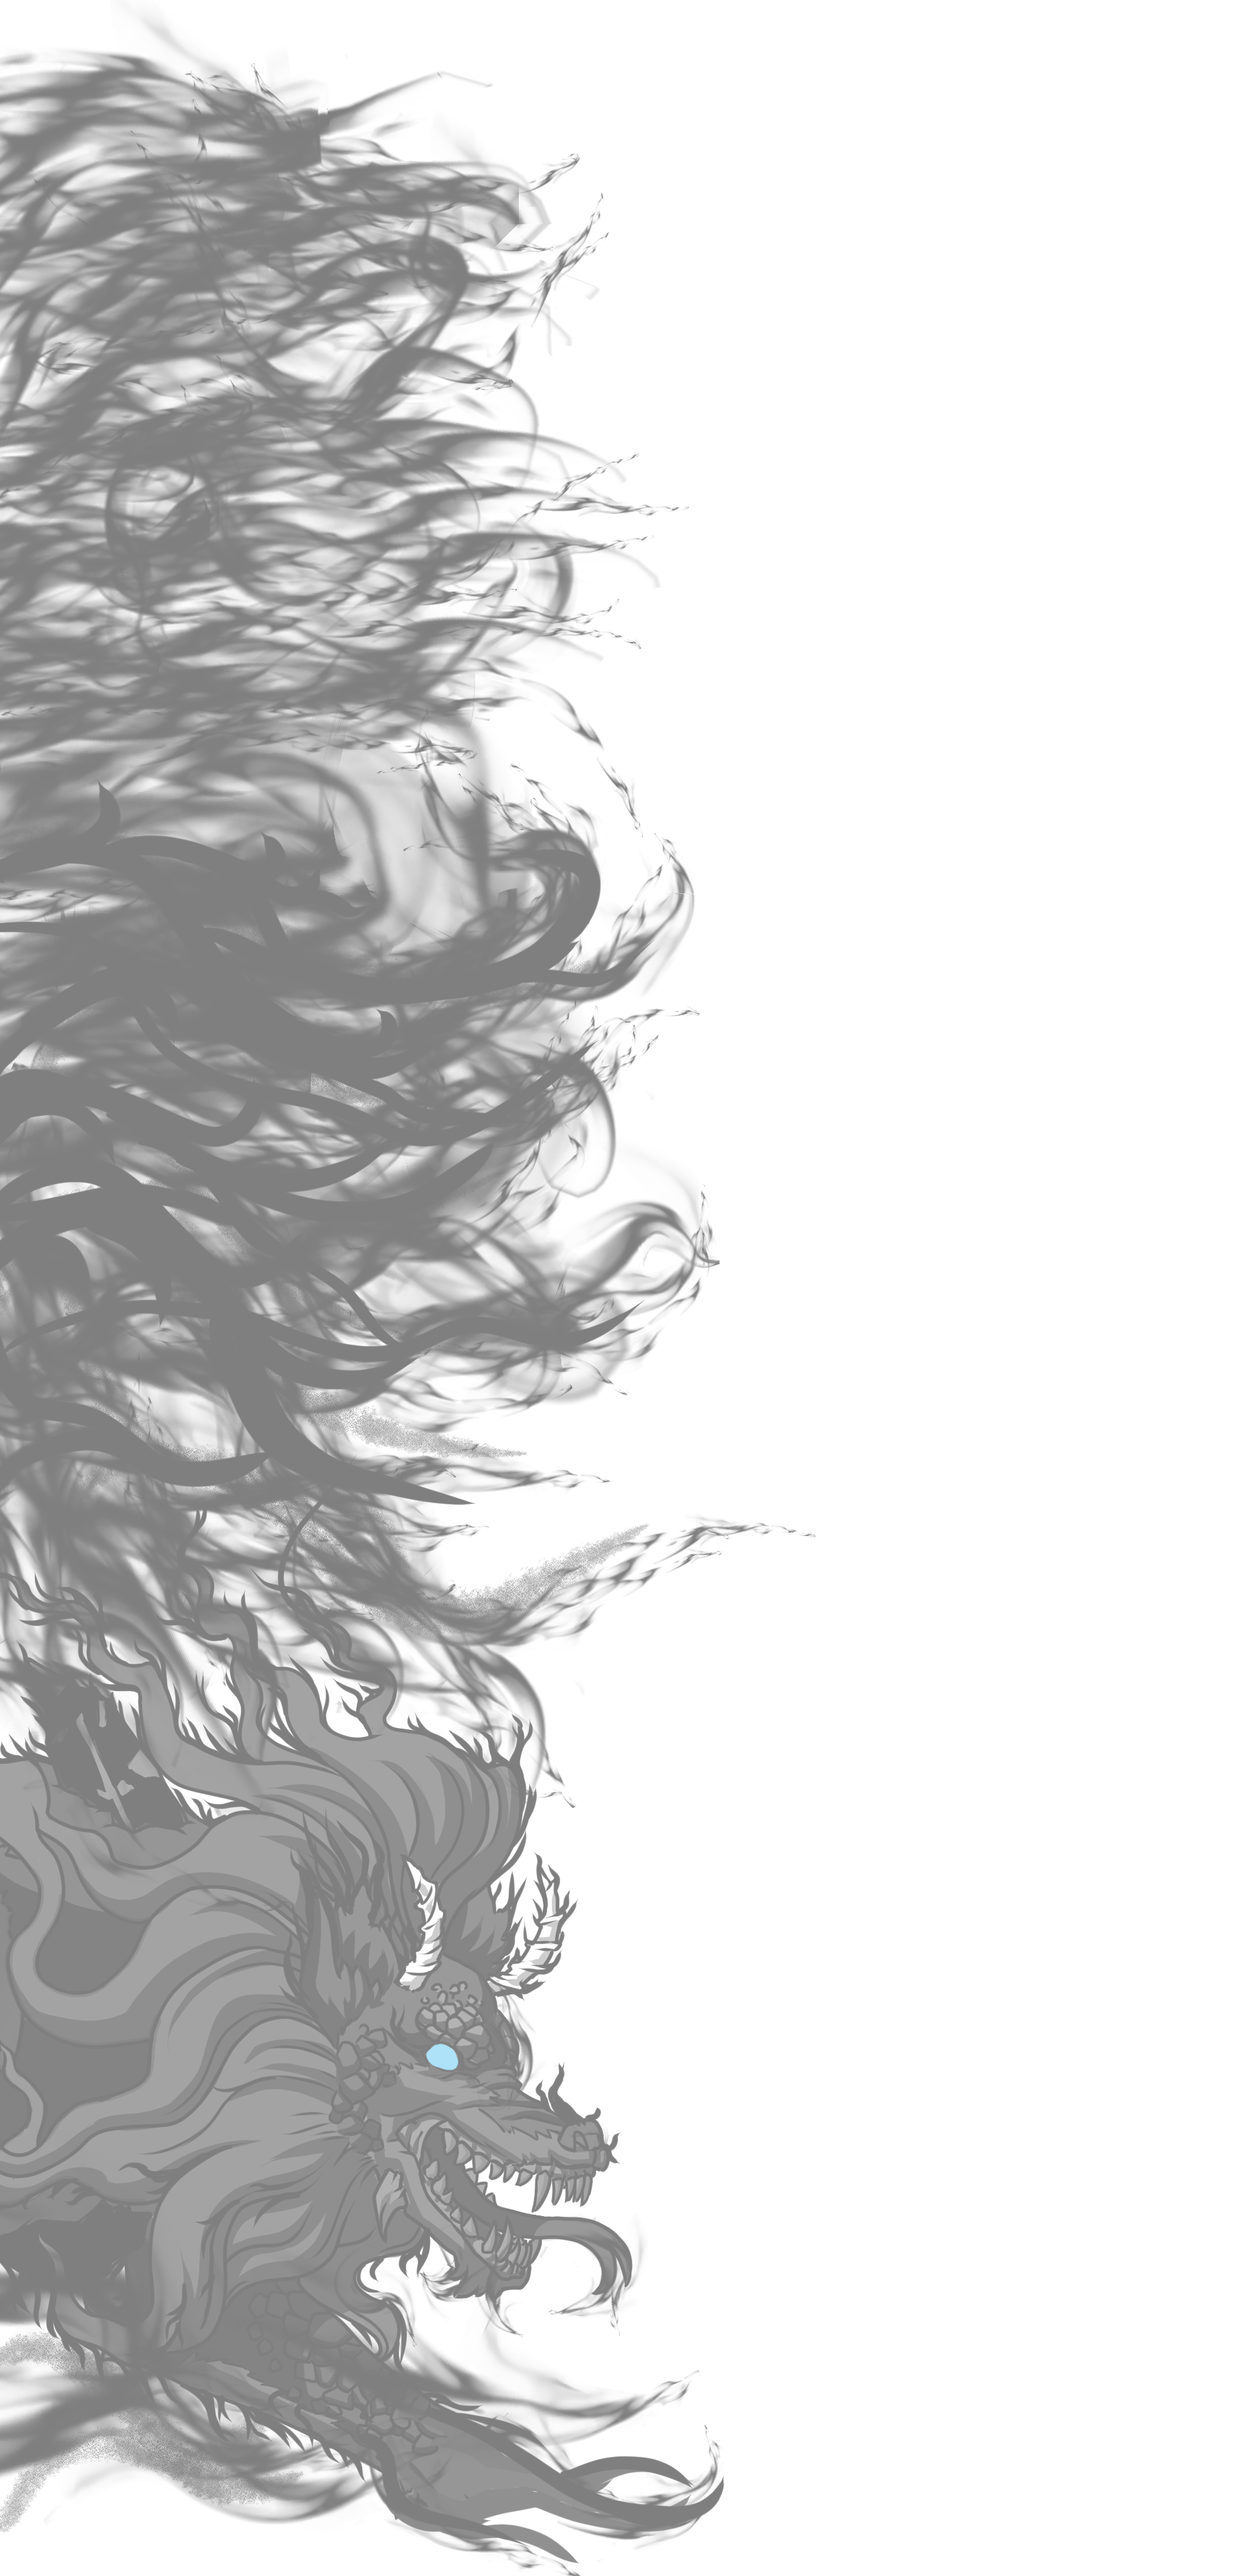
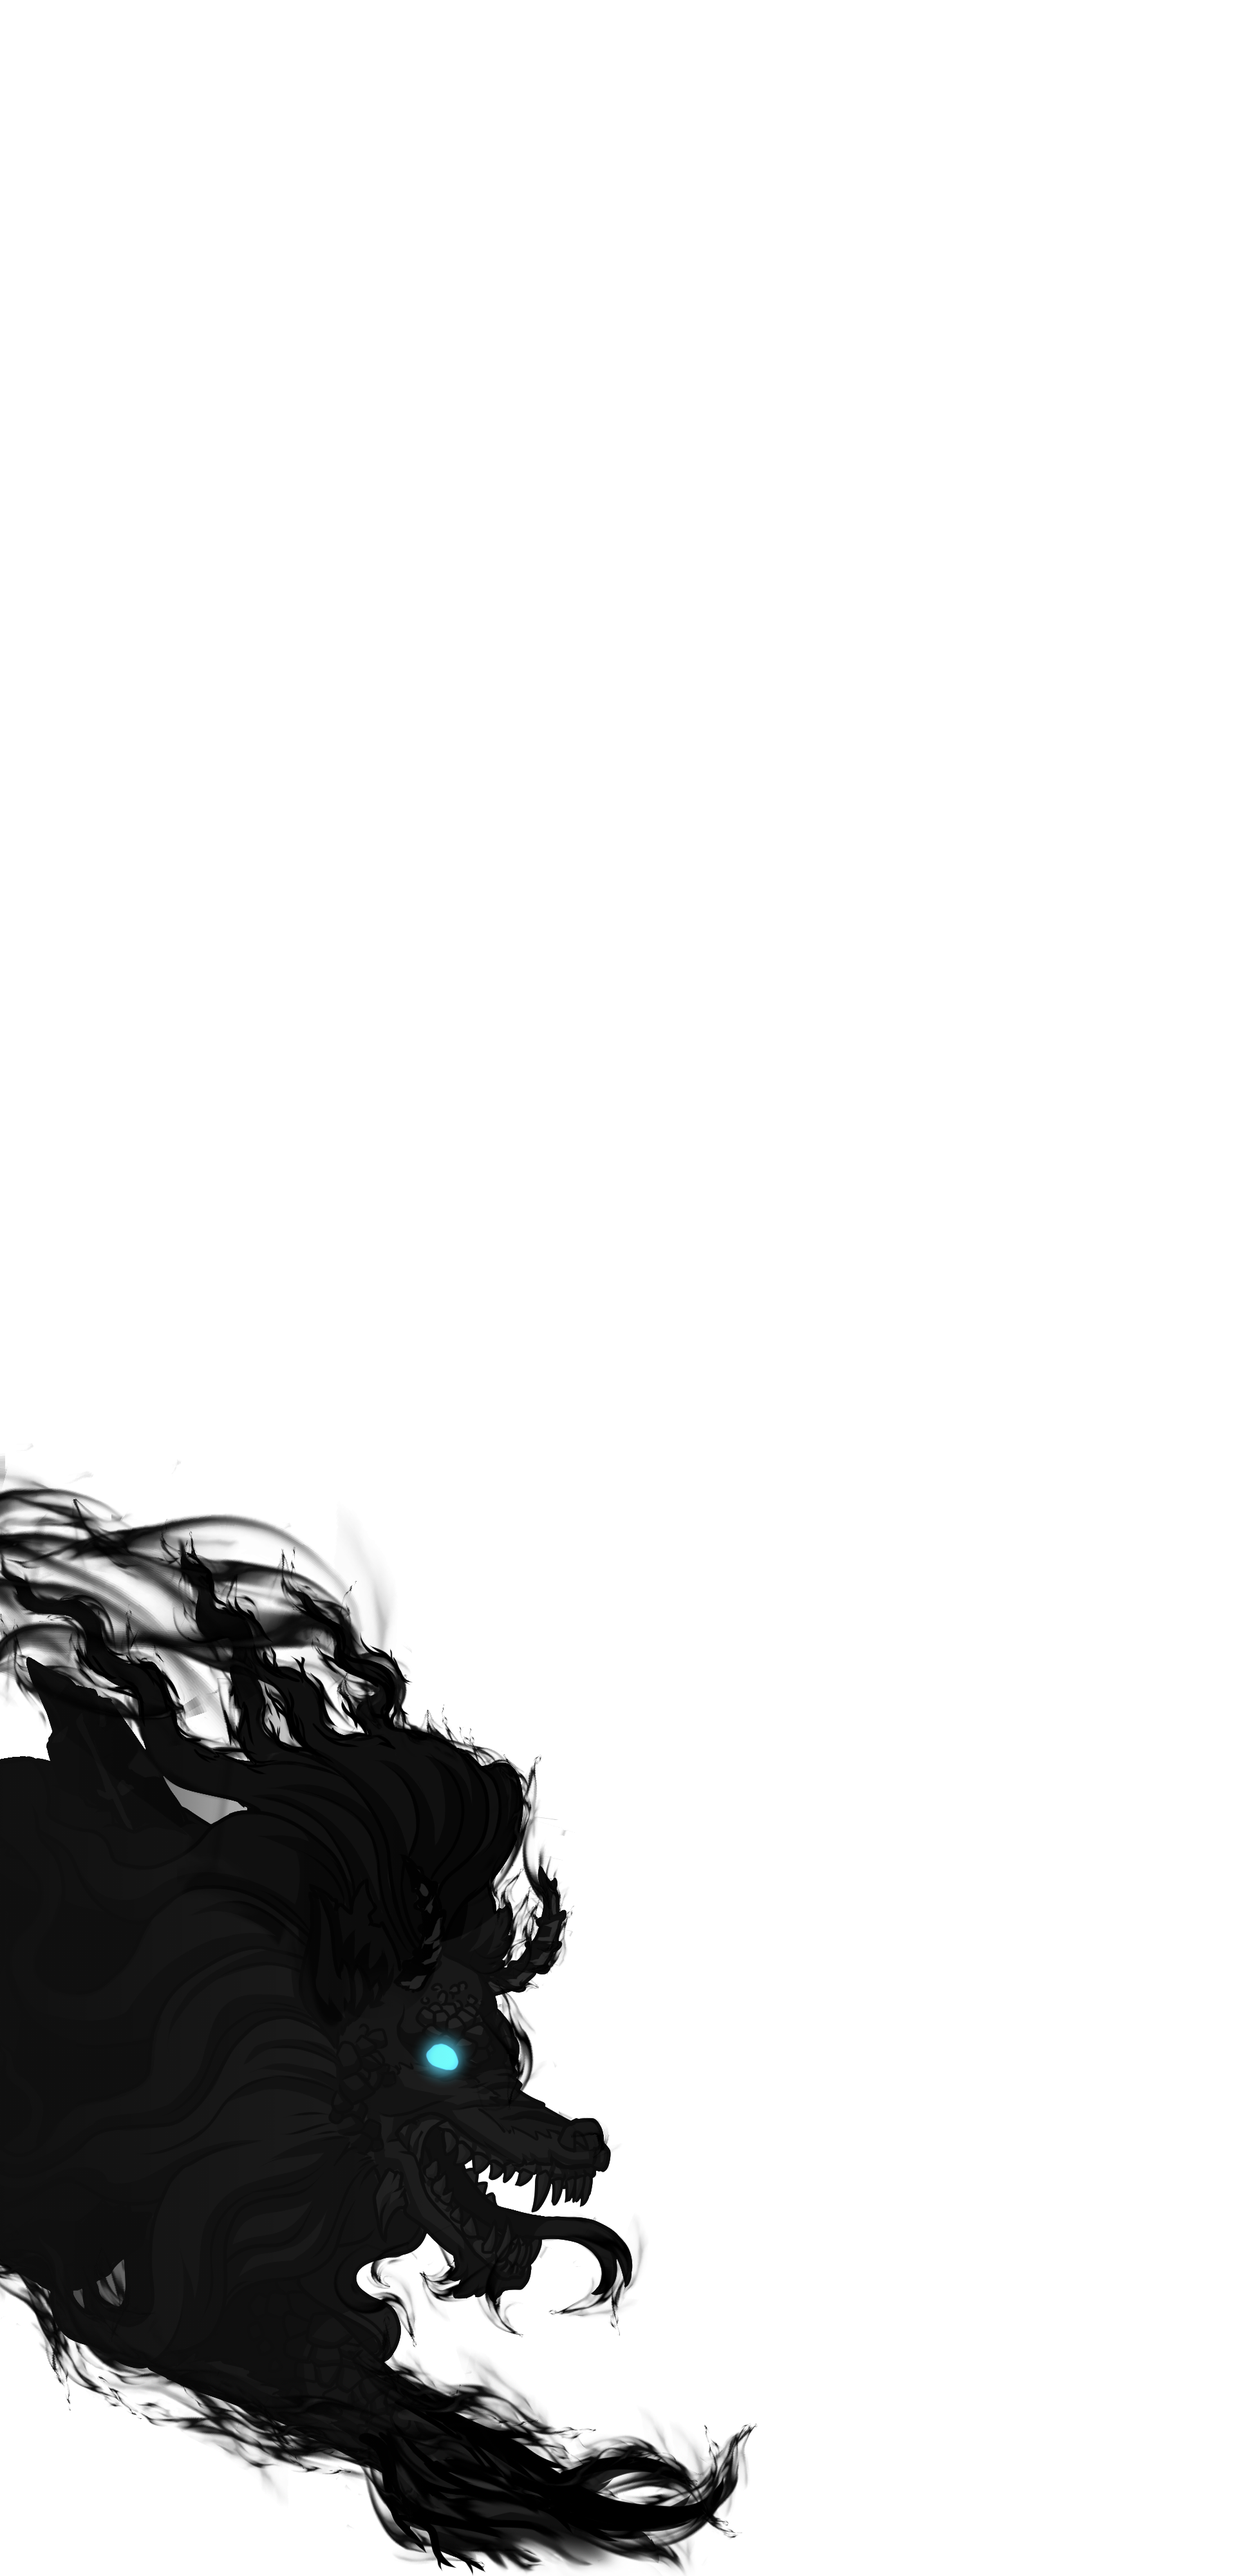
Update shadow background

diff --git a/lib/overrides.tsx b/lib/overrides.tsx
@@ -14,12 +14,14 @@ import { ShadowBackground } from "@darkwynd/components/ShadowBackground";
 import { Footer } from "@public/components/Layout/Footer";
 import { HeaderBanner } from "@public/components/Layout/Header/HeaderBanner";
 import { ProductPage } from "@store/components/ProductPage";
-
 import { SearchResults } from "@store/components/ProductsPage/SearchResults";
+
 import swooshL from "../components/swoosh-l.png";
 import swooshR from "../components/swoosh-r.png";
 import tormentDark from "../components/torment-dark.png";
 import torment from "../components/torment.png";
+import { MyAccount } from "@uac/components/MyAccount";
+import { Cart } from "@store/components/Cart";
 
 // Custom site banner
 HeaderBanner.override(CustomBanner);
@@ -98,7 +100,7 @@ SocialLinks.override(({Original}) => <>
 // Add shadowed background and fancy header to CMS pages
 PageComponent.override(({Original, page, notFound}) => <>
     <FancyHeader text={page?.title || (notFound  ? "404: Page Not Found" : "Loading...")} />
-    <ShadowBackground>
+    <ShadowBackground hideLeftBottom hideRightBottom hideLeftTop hideRightTop>
         <Original />
     </ShadowBackground>
 </>);
@@ -116,7 +118,7 @@ CharacterPageHeader.hide();
 // Add shadowed background and fancy header to latest page
 LatestPage.override(({Original}) => <>
     <FancyHeader text="Latest Page" />
-    <ShadowBackground>
+    <ShadowBackground hideRightTop>
         <Original />
     </ShadowBackground>
 </>);
@@ -130,15 +132,35 @@ Page.override(connectPageView(({Original, pageNumber}: any) => <>
     </ShadowBackground>
 </>));
 
+// ProductsPage.override(({Original}) => <>
+//     <ShadowBackground>
+//         <Original />
+//     </ShadowBackground>
+// </>);
+
 ProductPage.override(({Original}) => <>
-    <ShadowBackground>
-        <div style={{marginTop: "-156px"}}>
-            <Original />
-        </div>
-    </ShadowBackground>
+    <div style={{marginTop: "-20px"}}>
+        <ShadowBackground hideLeftBottom hideRightBottom>
+            <div style={{marginTop: "-128px"}} >
+                <Original />
+            </div>
+        </ShadowBackground>
+    </div>
 </>);
 
 SearchResults.override(({Original}) => <>
+    <div style={{paddingBottom: "128px"}}>
+        <Original />
+    </div>
+</>);
+
+MyAccount.override(({Original}) => <>
+    <div style={{paddingBottom: "256px"}}>
+        <Original />
+    </div>
+</>);
+
+Cart.override(({Original}) => <>
     <div style={{paddingBottom: "128px"}}>
         <Original />
     </div>

diff --git a/components/ShadowBackground/ShadowBackground.component.tsx b/components/ShadowBackground/ShadowBackground.component.tsx
@@ -1,26 +1,31 @@
 import { ShadowBackgroundProps } from "./ShadowBackground.d";
 import styles from './ShadowBackground.module.scss';
 
-// import shadowL from "./shadow-l.png";
-import shadowR from "./shadow-r.png";
-
 import shadowLBottom from "./shadow-l-bottom.png";
 import shadowLGradient from "./shadow-l-gradient.png";
 import shadowLTop from "./shadow-l-top.png";
-// import shadowRTop from "./shadow-r-top.png";
-// import shadowRBottom from "./shadow-r-bottom.png";
-// import shadowRGradient from "./shadow-r-gradient.png";
+import showdowLWisps from "./shadow-l-mid.png";
+import shadowRTop from "./shadow-r-top.png";
+import shadowRBottom from "./shadow-r-bottom.png";
+import shadowRGradient from "./shadow-r-gradient.png";
+import showdowRWisps from "./shadow-r-mid.png";
 
 
 export const ShadowBackgroundComponent = ({
 	children,
+	hideLeftBottom, hideLeftGradient, hideLeftTop, hideLeftWisps,
+	hideRightBottom, hideRightGradient, hideRightTop, hideRightWisps,
 }: ShadowBackgroundProps) => {
-	const background = `
-		url(${shadowLTop}) left top no-repeat,
-		url(${shadowLBottom}) left bottom no-repeat,
-		url(${shadowLGradient}) left top repeat-y,
-		url(${shadowR}) right top repeat-y
-	`;
+	const background = [
+		!hideLeftGradient && `url(${shadowLGradient}) left top repeat-y`,
+		!hideLeftTop && `url(${shadowLTop}) left top no-repeat`,
+		!hideLeftBottom && `url(${shadowLBottom}) left bottom no-repeat`,
+		!hideLeftWisps && `url(${showdowLWisps}) left top repeat-y`,
+		!hideRightGradient && `url(${shadowRGradient}) right top repeat-y`,
+		!hideRightTop && `url(${shadowRTop}) right top no-repeat`,
+		!hideRightBottom && `url(${shadowRBottom}) right bottom no-repeat`,
+		!hideRightWisps && `url(${showdowRWisps}) right top repeat-y`,
+	].filter(b => b).join(", ");
 
 	return (
 		<div className={styles.shadowBackgroundContainer} style={{background}}>

diff --git a/components/ShadowBackground/ShadowBackground.d.ts b/components/ShadowBackground/ShadowBackground.d.ts
@@ -5,6 +5,14 @@ export declare interface IShadowBackgroundProps {
 // What gets passed into the component from the parent as attributes
 export declare interface IShadowBackgroundInputProps {
     children?: React.ReactNode;
+    hideLeftTop?: boolean;
+    hideLeftBottom?: boolean;
+    hideLeftGradient?: boolean;
+    hideLeftWisps?: boolean;
+    hideRightTop?: boolean;
+    hideRightBottom?: boolean;
+    hideRightGradient?: boolean;
+    hideRightWisps?: boolean;
 }
 
 export type ShadowBackgroundProps = IShadowBackgroundInputProps & IShadowBackgroundProps;

diff --git a/components/Links/Links.component.tsx b/components/Links/Links.component.tsx
@@ -9,7 +9,7 @@ import styles from './Links.module.scss';
 
 export const LinksComponent = ({}:LinksProps) => <>
     <FancyHeader text="Links" />
-    <ShadowBackground>
+    <ShadowBackground hideLeftBottom hideRightBottom>
         <Row className={styles.linksPage}>
             <Col  xs={0} sm={7} className={styles.leftAd}>
                 <BannerList tag="linksLeft" columns={1} /><br/>
